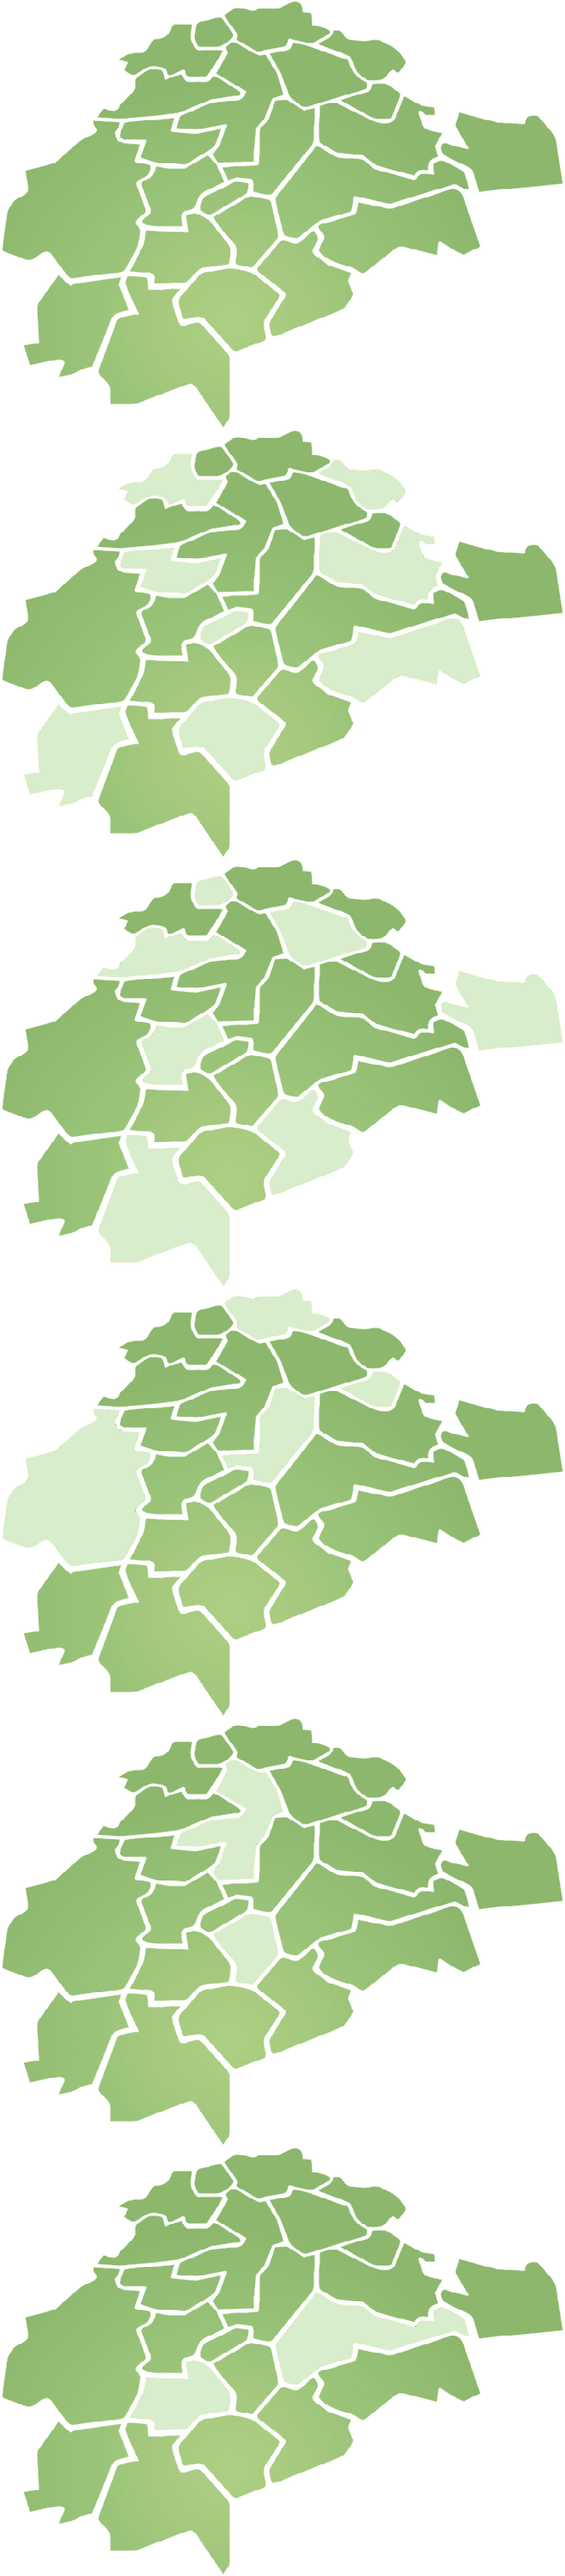
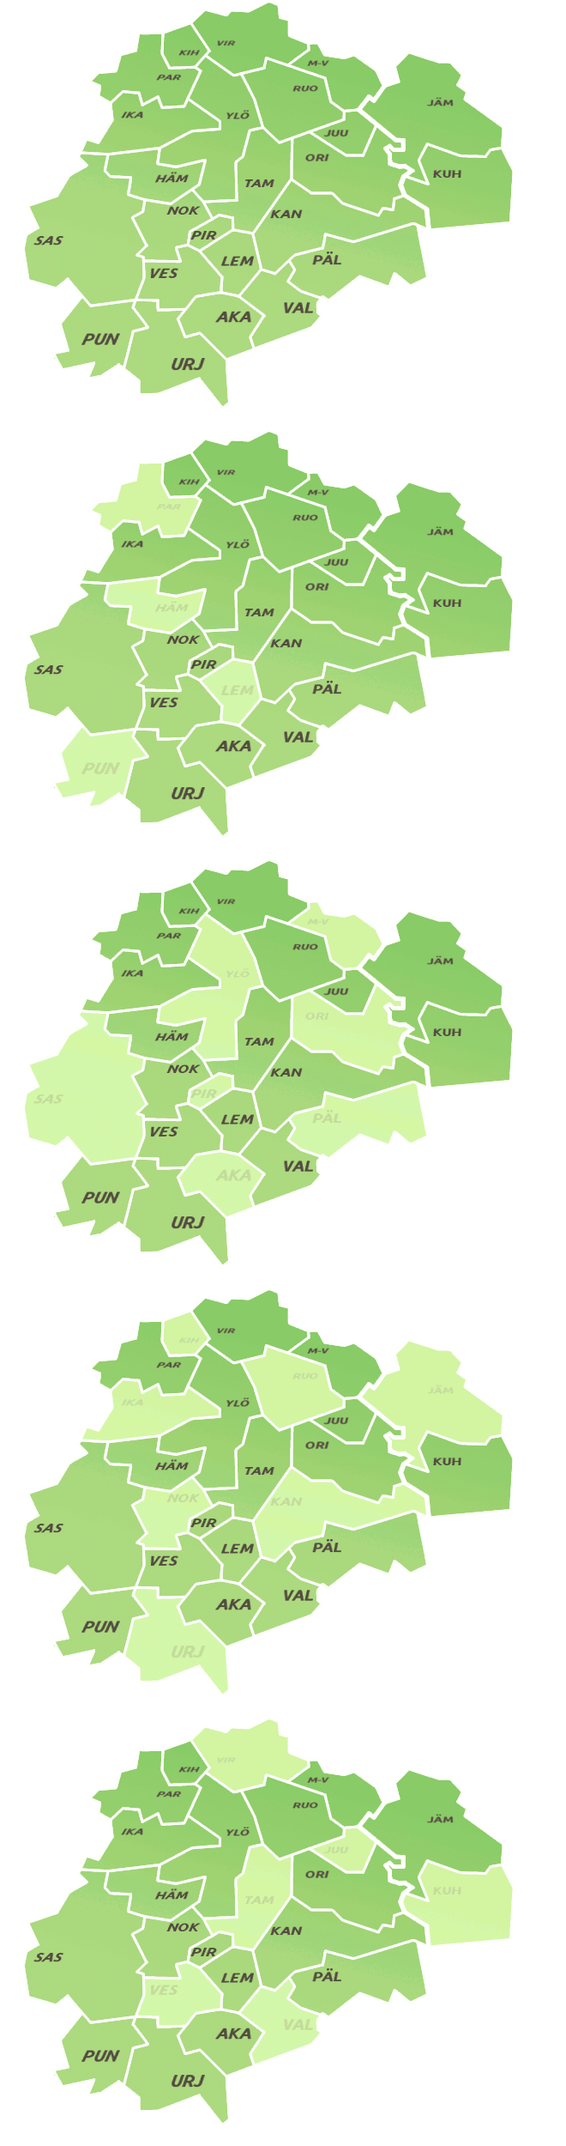
map-sprite and css testing with it

diff --git a/css/base.css b/css/base.css
@@ -113,10 +113,103 @@ ul.navlist li#current{
    overflow: hidden;
    background-color: #ffffff;
 }
-#pshp-map{
+ul#pshp-map{
    height: 485px;
    width: 660px;
    background: #ffffff url('../pics/map.png') no-repeat left top;
+   position: relative;
+}
+#pshp-map li {
+    margin: 0; 
+    padding: 0; 
+    list-style: none;
+    position: absolute; 
+    top: 0;
+}
+#pshp-map li, #pshp-map a {
+    display: block;
+}
+#kih{
+
+}
+#vir{
+   top:5px;
+   left: 220px;
+   width:135px;
+   height: 90px;
+}
+#vir:hover{
+   top:5px
+   left: 220px;
+   width:140px;
+   height: 90px;
+   background: transparent url('../pics/map.png') -220px -2000px no-repeat;
+}
+#mv{
+
+}
+#jam{
+
+}
+#kuh{
+
+}
+#par{
+
+}
+#ylo{
+
+}
+#ruo{
+
+}
+#juu{
+
+}
+#ori{
+
+}
+#kan{
+
+}
+#pal{
+
+}
+#ika{
+
+}
+#ham{
+
+}
+#nok{
+
+}
+#tam{
+
+}
+#pir{
+
+}
+#lem{
+
+}
+#val{
+
+}
+#sas{
+
+}
+#ves{
+
+}
+#aka{
+
+}
+#pun{
+
+}
+#urj{
+
 }
 #main-tree{
    margin-top: 1em;

diff --git a/index.php b/index.php
@@ -25,12 +25,34 @@
    <!--Centering the content-->
    <div class="wrap">
    <div class="content">
-   
+      <ul id="pshp-map">
+         <li id="kih"><a href="#1"></a></li>
+         <li id="vir"><a href="#2"></a></li>
+         <li id="mv"><a href="#3"></a></li>
+         <li id="jam"><a href="#4"></a></li>
+         <li id="kuh"><a href="#5"></a></li>
+         <li id="par"><a href="#6"></a></li>
+         <li id="ylo"><a href="#7"></a></li>
+         <li id="ruo"><a href="#8"></a></li>
+         <li id="juu"><a href="#9"></a></li>
+         <li id="ori"><a href="#10"></a></li>
+         <li id="kan"><a href="#11"></a></li>
+         <li id="pal"><a href="#12"></a></li>
+         <li id="ika"><a href="#13"></a></li>
+         <li id="ham"><a href="#14"></a></li>
+         <li id="nok"><a href="#15"></a></li>
+         <li id="tam"><a href="#16"></a></li>
+         <li id="pir"><a href="#17"></a></li>
+         <li id="lem"><a href="#18"></a></li>
+         <li id="val"><a href="#19"></a></li>
+         <li id="sas"><a href="#20"></a></li>
+         <li id="ves"><a href="#21"></a></li>
+         <li id="aka"><a href="#22"></a></li>
+         <li id="pun"><a href="#23"></a></li>
+         <li id="urj"><a href="#24"></a></li>
+      </ul>
       <!--id for visualization drawing script-->
-      <div id = "pshp-map">
-         <ul>
-         </ul>
-      </div>
+      <div id="pshp-map-paper"></div>
 
       
 
